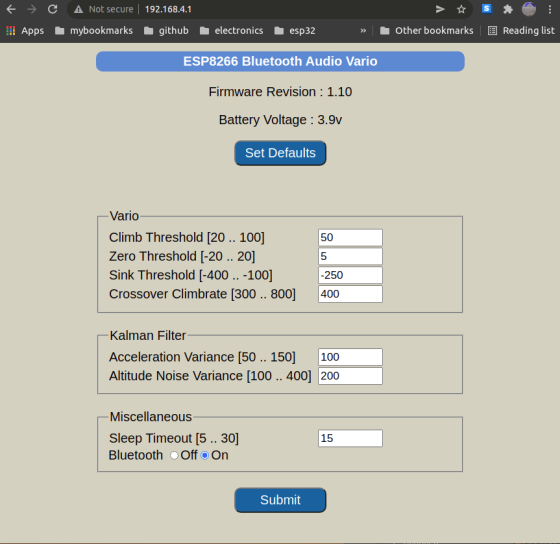
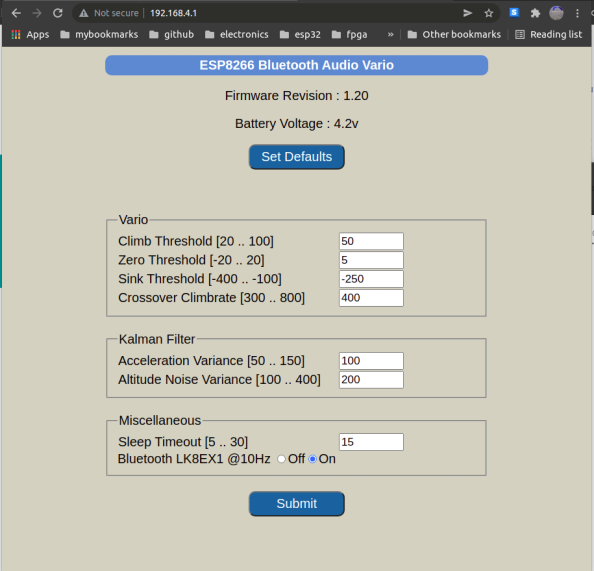
cleanup varioaudio, added mDNS

diff --git a/ESP8266_BLUETOOTH_VARIO/data/style.css b/ESP8266_BLUETOOTH_VARIO/data/style.css
@@ -128,7 +128,7 @@ button {
 
 input[type="number"] {
 	clear: both;
-	float: right;
+	float: left;
 	width: 100px;
 	}
 

diff --git a/ESP8266_BLUETOOTH_VARIO/varioaudio.cpp b/ESP8266_BLUETOOTH_VARIO/varioaudio.cpp
@@ -5,126 +5,165 @@
 #include "util.h"
 #include "varioaudio.h"
 
+typedef struct BEEP_ {
+    int periodTicks;  // on-time + off-time
+    int endTick; // on-time
+} BEEP;
 
-void VarioAudio::config() {
-    sinkToneCps_    =  (int32_t)Nvd.par.cfg.vario.sinkThresholdCps;
-    climbToneCps_   =  (int32_t)Nvd.par.cfg.vario.climbThresholdCps;
-    zeroesToneCps_  =  (int32_t)Nvd.par.cfg.vario.zeroThresholdCps;
-    crossoverCps_   =  (int32_t)Nvd.par.cfg.vario.crossoverCps;
+// clamp climbrate/sinkrate for audio feedback to +/- 10 m/s
+#define VARIO_MAX_CPS         1000
+
+static int32_t CurrentCps; // internal state : current climb/sink rate
+static int32_t CurrentFreqHz; // internal state : current frequency being generated
+// sinktone indicates sinking air, this is a warning tone
+static int32_t SinkToneCps; // threshold in cm per second
+// climbtone indicates lift is strong enough to try turning to stay in it
+static int32_t ClimbToneCps; // threshold in cm per second
+// zeroestone indicates weak lift, possibility of stronger lift/thermal nearby
+static int32_t ZeroesToneCps; // threshold in cm per second
+// allocate roughly 1 decade (10:1) of speaker frequency bandwidth to climbrates below
+// crossoverCps, and 1 octave (2:1) of frequency bandwidth to climbrates above
+// crossoverCps. So if you are flying in strong conditions, increase crossoverCps.
+// If you are flying in weak conditions, decrease crossoverCps.
+static int32_t CrossoverCps;
+
+static int BeepPeriodTicks; // internal state : current beep interval in ticks
+static int BeepEndTick; // internal state : current beep  on-time in ticks
+static int Tick; // internal state : current tick ( 1 tick ~= 20mS)
+static int VarioState; // internal state : climb/zeroes/quiet/sink
+// for offscale climbrates above +10m/s generate continuous warbling tone
+static const int OffScaleHiTone[8]  = {400,800,1200,1600,2000,1600,1200,800};
+// for offscale sinkrates below -10m/s generate continuous descending tone
+static const int OffScaleLoTone[8]  = {4000,3500,3000,2500,2000,1500,1000,500};
+// {beep_period, beep_on_time} based on vertical climbrate in 1m/s intervals
+static const BEEP BeepTbl[10] = {
+{16,10}, // 0m/s to +1m/s
+{14,9},  
+{12,8},
+{10,7},
+{9,6},
+{8,5},
+{7,4},
+{6,3},
+{5,2},
+{4,2}, // +9m/s to +10m/s
+};	
+
+static void vaudio_reset();
+
+
+void vaudio_config() {
+    SinkToneCps    =  (int32_t)Nvd.par.cfg.vario.sinkThresholdCps;
+    ClimbToneCps   =  (int32_t)Nvd.par.cfg.vario.climbThresholdCps;
+    ZeroesToneCps  =  (int32_t)Nvd.par.cfg.vario.zeroThresholdCps;
+    CrossoverCps   =  (int32_t)Nvd.par.cfg.vario.crossoverCps;
 #ifdef VARIO_DEBUG  
-    dbg_printf(("climbToneCps = %d\r\n", climbToneCps_));
-    dbg_printf(("zeroesToneCps = %d\r\n", zeroesToneCps_));
-    dbg_printf(("sinkToneCps = %d\r\n", sinkToneCps_));
-    dbg_printf(("crossoverCps = %d\r\n", crossoverCps_));
+    dbg_printf(("climbToneCps = %d\r\n", ClimbToneCps));
+    dbg_printf(("zeroesToneCps = %d\r\n", ZeroesToneCps));
+    dbg_printf(("sinkToneCps = %d\r\n", SinkToneCps));
+    dbg_printf(("crossoverCps = %d\r\n", CrossoverCps));
 #endif  
-    varioState_ 		= VARIO_STATE_QUIET;
-    beepPeriodTicks_	= 0;
-    beepEndTick_ 		= 0;
-    varioCps_ 			= 0;
-    freqHz_  			= 0;
+    BeepPeriodTicks	= 0;
+    BeepEndTick 	= 0;
+    CurrentCps 		= 0;
+    CurrentFreqHz  	= 0;
+	Tick 			= 0;
     }
 
 
-void VarioAudio::beep(int32_t nCps) {
-    int32_t newFreqHz = 0;
+static void vaudio_reset(int32_t nCps) {
+	CurrentCps = nCps;
+	Tick = 0;
+	// if sinking significantly faster than glider sink rate in still air, generate warning sink tone
+	if (CurrentCps <= SinkToneCps) {
+		if (CurrentCps <= -VARIO_MAX_CPS) {
+			BeepPeriodTicks = 8;
+			BeepEndTick = 8;
+			CurrentFreqHz = OffScaleLoTone[0];
+			audio_set_frequency(CurrentFreqHz);
+			}
+		else {
+			BeepPeriodTicks = 40; // sink indicated with descending frequency beeps with long on-times
+			BeepEndTick  = 30;
+			// descending tone starts at higher frequency for higher sink rate
+			CurrentFreqHz = VARIO_SPKR_MAX_FREQHZ/2 + ((CurrentCps + VARIO_MAX_CPS)*(VARIO_SPKR_MIN_FREQHZ + 600 - VARIO_SPKR_MAX_FREQHZ/2))/(SinkToneCps + VARIO_MAX_CPS);
+			CLAMP(CurrentFreqHz, VARIO_SPKR_MIN_FREQHZ, VARIO_SPKR_MAX_FREQHZ);
+			audio_set_frequency(CurrentFreqHz);
+			}
+		}
+	//if climbing, generate beeps
+	else {
+		if (CurrentCps >= ClimbToneCps) {
+			if (CurrentCps >= VARIO_MAX_CPS) {
+				BeepPeriodTicks = 8;
+				BeepEndTick = 8;
+				CurrentFreqHz = OffScaleHiTone[0];
+				audio_set_frequency(CurrentFreqHz);
+				}
+			else {
+				int index = CurrentCps/100;
+				if (index > 9) index = 9;
+				BeepPeriodTicks = BeepTbl[index].periodTicks;
+				BeepEndTick = BeepTbl[index].endTick;
+				if (CurrentCps > CrossoverCps) {
+					CurrentFreqHz = VARIO_CROSSOVER_FREQHZ + ((CurrentCps - CrossoverCps)*(VARIO_SPKR_MAX_FREQHZ - VARIO_CROSSOVER_FREQHZ))/(VARIO_MAX_CPS - CrossoverCps);
+					}
+				else {
+					CurrentFreqHz = VARIO_SPKR_MIN_FREQHZ + ((CurrentCps - ZeroesToneCps)*(VARIO_CROSSOVER_FREQHZ - VARIO_SPKR_MIN_FREQHZ))/(CrossoverCps - ZeroesToneCps);
+					}
+				CLAMP(CurrentFreqHz, VARIO_SPKR_MIN_FREQHZ, VARIO_SPKR_MAX_FREQHZ);
+				audio_set_frequency(CurrentFreqHz);
+				}
+			}
+		else   // in "zeroes" band, indicate with a short pulse and long interval
+		if (CurrentCps >= ZeroesToneCps) {
+			BeepPeriodTicks = 30;
+			BeepEndTick = 2;
+			CurrentFreqHz = VARIO_SPKR_MIN_FREQHZ + ((CurrentCps - ZeroesToneCps)*(VARIO_CROSSOVER_FREQHZ - VARIO_SPKR_MIN_FREQHZ))/(CrossoverCps - ZeroesToneCps);
+			CLAMP(CurrentFreqHz, VARIO_SPKR_MIN_FREQHZ, VARIO_SPKR_MAX_FREQHZ);
+			audio_set_frequency(CurrentFreqHz);
+			}            
+		// between zeroes threshold and sink threshold, chillout
+		else {
+			BeepPeriodTicks = 0;
+			BeepEndTick  = 0;
+			CurrentFreqHz = 0;
+			audio_set_frequency(CurrentFreqHz);
+			}
+		}
+	}
+
+
+void vaudio_tick_handler(int32_t nCps) {
     // generate new beep/tone only if current beep/tone has ended, OR climb threshold exceeded
-    if ((beepPeriodTicks_ <= 0)  || ((nCps >= climbToneCps_) && (varioCps_ < climbToneCps_)) ) {
-        varioCps_ = nCps;
-        // if sinking significantly faster than glider sink rate in still air, generate warning sink tone
-        if (varioCps_ <= sinkToneCps_) {
-            varioState_ = VARIO_STATE_SINK;
-            tick_ = 0;
-            if (varioCps_ <= -VARIO_MAX_CPS) {
-                beepPeriodTicks_ = 8;
-                beepEndTick_ = 8;
-                newFreqHz = offScaleLoTone_[0];
-                freqHz_ = newFreqHz;
-                audio_set_frequency(freqHz_);
-                }
-            else {
-                beepPeriodTicks_ = 40; // sink indicated with descending frequency beeps with long on-times
-                beepEndTick_  = 30;
-                // descending tone starts at higher frequency for higher sink rate
-                newFreqHz = VARIO_SPKR_MAX_FREQHZ/2 + ((varioCps_ + VARIO_MAX_CPS)*(VARIO_SPKR_MIN_FREQHZ + 600 - VARIO_SPKR_MAX_FREQHZ/2))/(sinkToneCps_ + VARIO_MAX_CPS);
-                CLAMP(newFreqHz, VARIO_SPKR_MIN_FREQHZ, VARIO_SPKR_MAX_FREQHZ);
-                freqHz_ = newFreqHz;
-                audio_set_frequency(freqHz_);
-                }
-            }
-        //if climbing, generate beeps
-        else {
-            if (varioCps_ >= climbToneCps_) {
-                varioState_ = VARIO_STATE_CLIMB;
-                tick_ = 0;
-                if (varioCps_ >= VARIO_MAX_CPS) {
-                    beepPeriodTicks_ = 8;
-                    beepEndTick_ = 8;
-                    newFreqHz = offScaleHiTone_[0];
-                    freqHz_ = newFreqHz;
-                    audio_set_frequency(freqHz_);
-                    }
-                else {
-                    int index = varioCps_/100;
-                    if (index > 9) index = 9;
-                    beepPeriodTicks_ = beepTbl_[index].periodTicks;
-                    beepEndTick_ = beepTbl_[index].endTick;
-                    if (varioCps_ > crossoverCps_) {
-                        newFreqHz = VARIO_CROSSOVER_FREQHZ + ((varioCps_ - crossoverCps_)*(VARIO_SPKR_MAX_FREQHZ - VARIO_CROSSOVER_FREQHZ))/(VARIO_MAX_CPS - crossoverCps_);
-                        }
-                    else {
-                        newFreqHz = VARIO_SPKR_MIN_FREQHZ + ((varioCps_ - zeroesToneCps_)*(VARIO_CROSSOVER_FREQHZ - VARIO_SPKR_MIN_FREQHZ))/(crossoverCps_ - zeroesToneCps_);
-                        }
-                    CLAMP(newFreqHz, VARIO_SPKR_MIN_FREQHZ, VARIO_SPKR_MAX_FREQHZ);
-                    freqHz_ = newFreqHz;
-                    audio_set_frequency(freqHz_);
-                    }
-                }
-            else   // in "zeroes" band, indicate with a short pulse and long interval
-            if (varioCps_ >= zeroesToneCps_) {
-                varioState_ = VARIO_STATE_ZEROES;
-    		    tick_ = 0;
-    		    beepPeriodTicks_ = 30;
-    		    beepEndTick_ = 2;
-    		    newFreqHz = VARIO_SPKR_MIN_FREQHZ + ((varioCps_ - zeroesToneCps_)*(VARIO_CROSSOVER_FREQHZ - VARIO_SPKR_MIN_FREQHZ))/(crossoverCps_ - zeroesToneCps_);
-                CLAMP(newFreqHz, VARIO_SPKR_MIN_FREQHZ, VARIO_SPKR_MAX_FREQHZ);
-                freqHz_ = newFreqHz;
-                audio_set_frequency(freqHz_);
-                }            
-            // between zeroes threshold and sink threshold, chillout
-            else {
-                varioState_ = VARIO_STATE_QUIET;
-                tick_ = 0;
-                beepPeriodTicks_ = 0;
-                beepEndTick_  = 0;
-                freqHz_ = 0;
-                audio_set_frequency(freqHz_);
-                }
-            }
+    if ((BeepPeriodTicks <= 0)  || ((nCps >= ClimbToneCps) && (CurrentCps < ClimbToneCps)) ) {
+		vaudio_reset(nCps);
         }
     else { // still processing current beep/tone
-        tick_++;
-        beepPeriodTicks_--;
-        if (tick_ >= beepEndTick_) { // shut off climb beep after 'on' time ends
+		int32_t newFreqHz;
+        Tick++;
+        BeepPeriodTicks--;
+        if (Tick >= BeepEndTick) { // shut off climb beep after 'on' time ends
             newFreqHz = 0;
             }
         else
-        if (varioCps_ >= VARIO_MAX_CPS) { // offscale climbrate (>= +10m/s) indicated with continuous warbling tone
-            newFreqHz = offScaleHiTone_[tick_];
+        if (CurrentCps >= VARIO_MAX_CPS) { // offscale climbrate (>= +10m/s) indicated with continuous warbling tone
+            newFreqHz = OffScaleHiTone[Tick];
             }
         else
-        if (varioCps_ <= -VARIO_MAX_CPS) {  // offscale sink (<= -10m/s) indicated with continuous descending tone
-            newFreqHz = offScaleLoTone_[tick_];
+        if (CurrentCps <= -VARIO_MAX_CPS) {  // offscale sink (<= -10m/s) indicated with continuous descending tone
+            newFreqHz = OffScaleLoTone[Tick];
             }
         else
-        if (varioState_ == VARIO_STATE_SINK) {  // sink is indicated with a descending frequency beep
-            newFreqHz = freqHz_ - 20;
+        if (CurrentCps <= SinkToneCps) {  // sink is indicated with a descending frequency beep
+            newFreqHz = CurrentFreqHz - 20;
             }
         else {
-            newFreqHz = freqHz_; // no change   
+            newFreqHz = CurrentFreqHz; // no change   
             }
-        if (newFreqHz != freqHz_) {
-            freqHz_ = newFreqHz;
-            audio_set_frequency(freqHz_);
+        if (newFreqHz != CurrentFreqHz) {
+            CurrentFreqHz = newFreqHz;
+            audio_set_frequency(CurrentFreqHz);
             }
         }
     }

diff --git a/ESP8266_BLUETOOTH_VARIO/varioaudio.h b/ESP8266_BLUETOOTH_VARIO/varioaudio.h
@@ -1,65 +1,8 @@
 #ifndef VARIO_AUDIO_H_
 #define VARIO_AUDIO_H_
 
-
-typedef struct BEEP_ {
-    int periodTicks;  // on-time + off-time
-    int endTick; // on-time
-} BEEP;
-
-// clamp climbrate/sinkrate for audio feedback to +/- 10 m/s
-#define VARIO_MAX_CPS         1000
-
-#define VARIO_STATE_SINK    	11
-#define VARIO_STATE_QUIET   	22
-#define VARIO_STATE_ZEROES		33
-#define VARIO_STATE_CLIMB   	44
-
-class VarioAudio {
-	
-public :
-    VarioAudio(){};
-
-    void config();
-    void beep(int32_t cps);
-
-private :
-    int32_t varioCps_; // internal state : current climb/sink rate
-    int32_t freqHz_; // internal state : current frequency being generated
-    // sinktone indicates sinking air, this is a warning tone
-    int32_t sinkToneCps_; // threshold in cm per second
-    // climbtone indicates lift is strong enough to try turning to stay in it
-    int32_t climbToneCps_; // threshold in cm per second
-    // zeroestone indicates weak lift, possibility of stronger lift/thermal nearby
-    int32_t zeroesToneCps_; // threshold in cm per second
-    // allocate roughly 1 decade (10:1) of speaker frequency bandwidth to climbrates below
-    // crossoverCps, and 1 octave (2:1) of frequency bandwidth to climbrates above
-    // crossoverCps. So if you are flying in strong conditions, increase crossoverCps.
-    // If you are flying in weak conditions, decrease crossoverCps.
-    int32_t crossoverCps_;
-
-    int beepPeriodTicks_; // internal state : current beep interval in ticks
-    int beepEndTick_; // internal state : current beep  on-time in ticks
-    int tick_; // internal state : current tick ( 1 tick ~= 20mS)
-    int varioState_; // internal state : climb/zeroes/quiet/sink
-    // for offscale climbrates above +10m/s generate continuous warbling tone
-    int offScaleHiTone_[8]  = {400,800,1200,1600,2000,1600,1200,800};
-    // for offscale sinkrates below -10m/s generate continuous descending tone
-    int offScaleLoTone_[8]  = {4000,3500,3000,2500,2000,1500,1000,500};
-    // {beep_period, beep_on_time} based on vertical climbrate in 1m/s intervals
-    BEEP beepTbl_[10] = {
-    {16,10}, // 0m/s to +1m/s
-    {14,9},  
-    {12,8},
-    {10,7},
-    {9,6},
-    {8,5},
-    {7,4},
-    {6,3},
-    {5,2},
-    {4,2}, // +9m/s to +10m/s
-    };	
-};
+void vaudio_config();
+void vaudio_tick_handler(int32_t cps);
 
 
 #endif

diff --git a/ESP8266_BLUETOOTH_VARIO/wificfg.cpp b/ESP8266_BLUETOOTH_VARIO/wificfg.cpp
@@ -5,6 +5,7 @@
 #include <AsyncElegantOTA.h>
 #include <FS.h>
 #include <LittleFS.h>
+#include <ESP8266mDNS.h>
 #include "config.h"
 #include "nvd.h"
 #include "adc.h"
@@ -133,7 +134,7 @@ static String server_string_processor(const String& var){
     else
     if(var == "BLUETOOTH"){
 #if (CFG_BLUETOOTH == true)    
-        String szhtml = "Bluetooth <input type=\"radio\" id=\"btoff\" name=bluetooth value=\"btoff\" ";
+        String szhtml = "Bluetooth LK8EX1 @10Hz <input type=\"radio\" id=\"btoff\" name=bluetooth value=\"btoff\" ";
         szhtml += Nvd.par.cfg.misc.bluetoothEnable == 0 ? "checked" : "";
         szhtml += "><label for=\"btoff\">Off</label>";
         szhtml += "<input type=\"radio\" id=\"bton\" name=bluetooth value=\"bton\" ";
@@ -201,6 +202,9 @@ void wificfg_ap_server_init() {
     // Print ESP8266 Local IP Address
     dbg_println((WiFi.localIP()));
 #endif
+    if (MDNS.begin("esp8266")) {
+    	Serial.println("MDNS started, connect to http://esp8266.local");
+    	}
     pServer = new AsyncWebServer(80);
     pServer->onNotFound(server_not_found);
     // Send web page with input fields to client

diff --git a/README.md b/README.md
@@ -14,11 +14,11 @@ flight instrument apps like [XCTrack](https://xctrack.org/) on a smartphone/tabl
 ## Software Build Environment 
 * Ubuntu 20.04 LTS AMDx64
 * Arduino IDE version 1.8.16
-* Arduino libraries used : 
+* External Arduino libraries used (install using Arduino Library Manager) : 
   * ESPAsyncTCP
   * ESPAsyncWebServer
   * AsyncElegantOTA
-* [ESP8266 LittleFS Data Upload](https://github.com/earlephilhower/arduino-esp8266littlefs-plugin/releases) plugin  
+* [Arduino ESP8266 LittleFS Data Upload plugin](https://github.com/earlephilhower/arduino-esp8266littlefs-plugin/releases)
 
 ## Hardware
 
@@ -106,8 +106,10 @@ If you want support for louder volume using the L9110S push-pull driver IC, set 
 * [This is a startup serial monitor log of the vario with calibrated accelerometer.](docs/boot_log.txt). 
 * This project uses the KF4D kalman filter algorithm from the [ESP32_IMU_GPS_BARO_VARIO](https://github.com/har-in-air/ESP32_IMU_BARO_GPS_VARIO) project.
 * To put the vario into WiFi configuration mode, switch on the vario and immediately press the `PGCC` button. Keep it pressed until you hear a confirmation tone, then release. You can now connect to the WiFi Access Point `ESP8266Vario` - no password needed. Now, access the url `http://192.168.4.1` in a browser.
+<br>
 <img src="docs/wifi_config_webpage.png">
 * To update the firmware, access the url `http://192.168.4.1/update`. 
 Upload the new firmware binary `.bin` file. Reboot the vario. Select WiFi configuration mode again, and confirm the firmware revision string has changed (assuming it has been updated along with code changes).<br>
-Note : To export the compiled firmware binary file to the sketch folder, use the `Sketch->Export compiled binary` command. 
+Note : To export the compiled firmware binary file to the sketch folder, use the `Sketch->Export compiled binary` command.
+<br> 
 <img src="docs/firmware_update.png">
